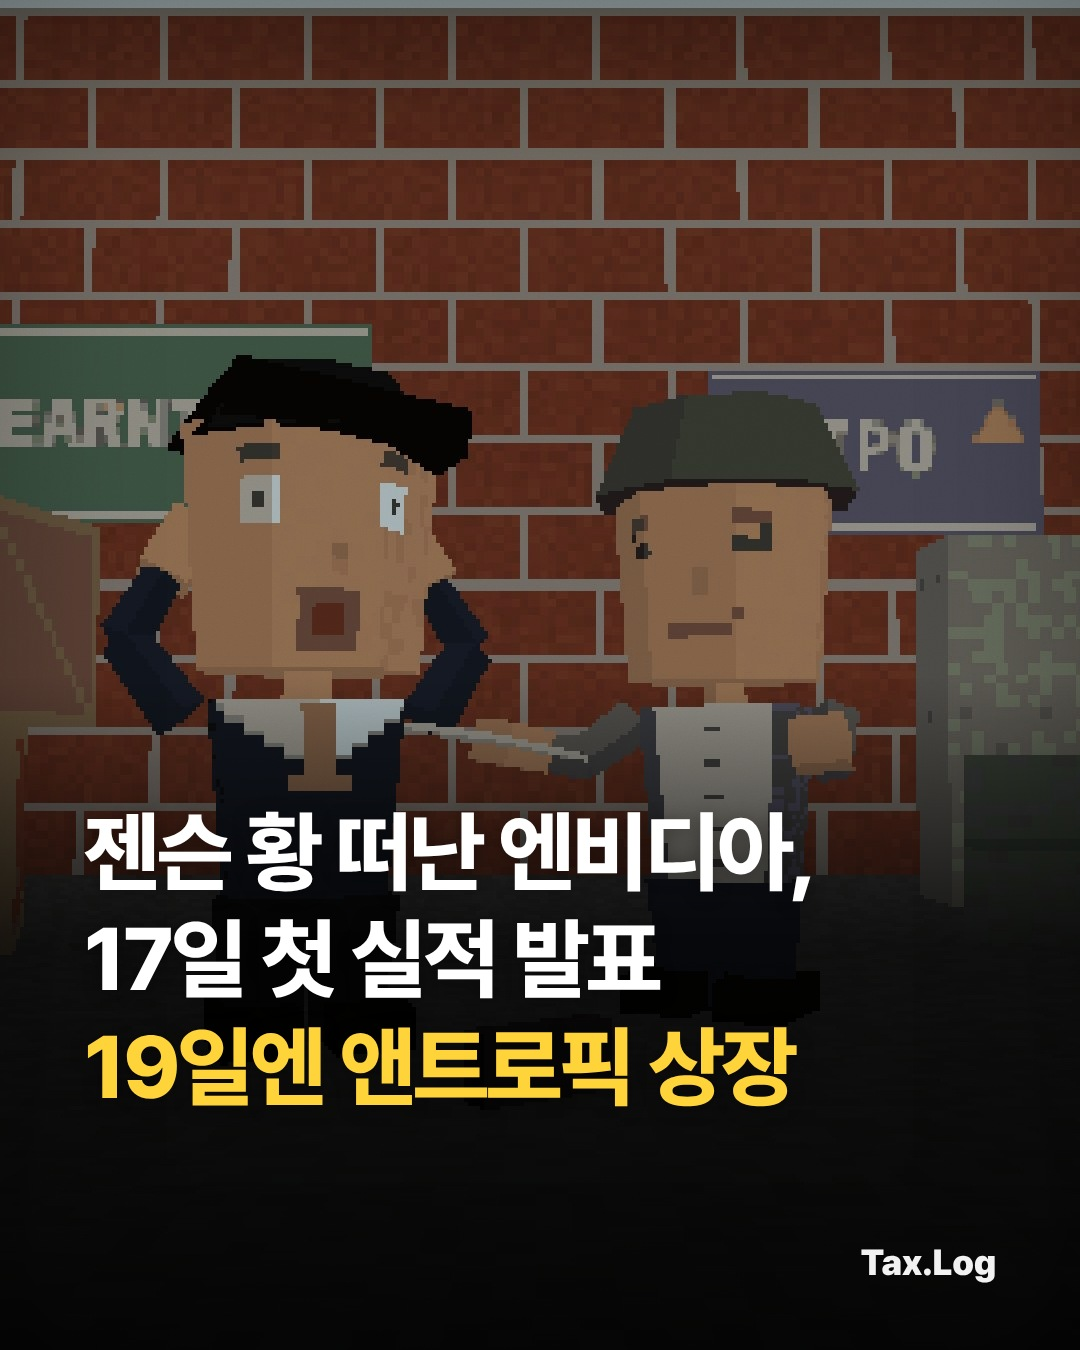
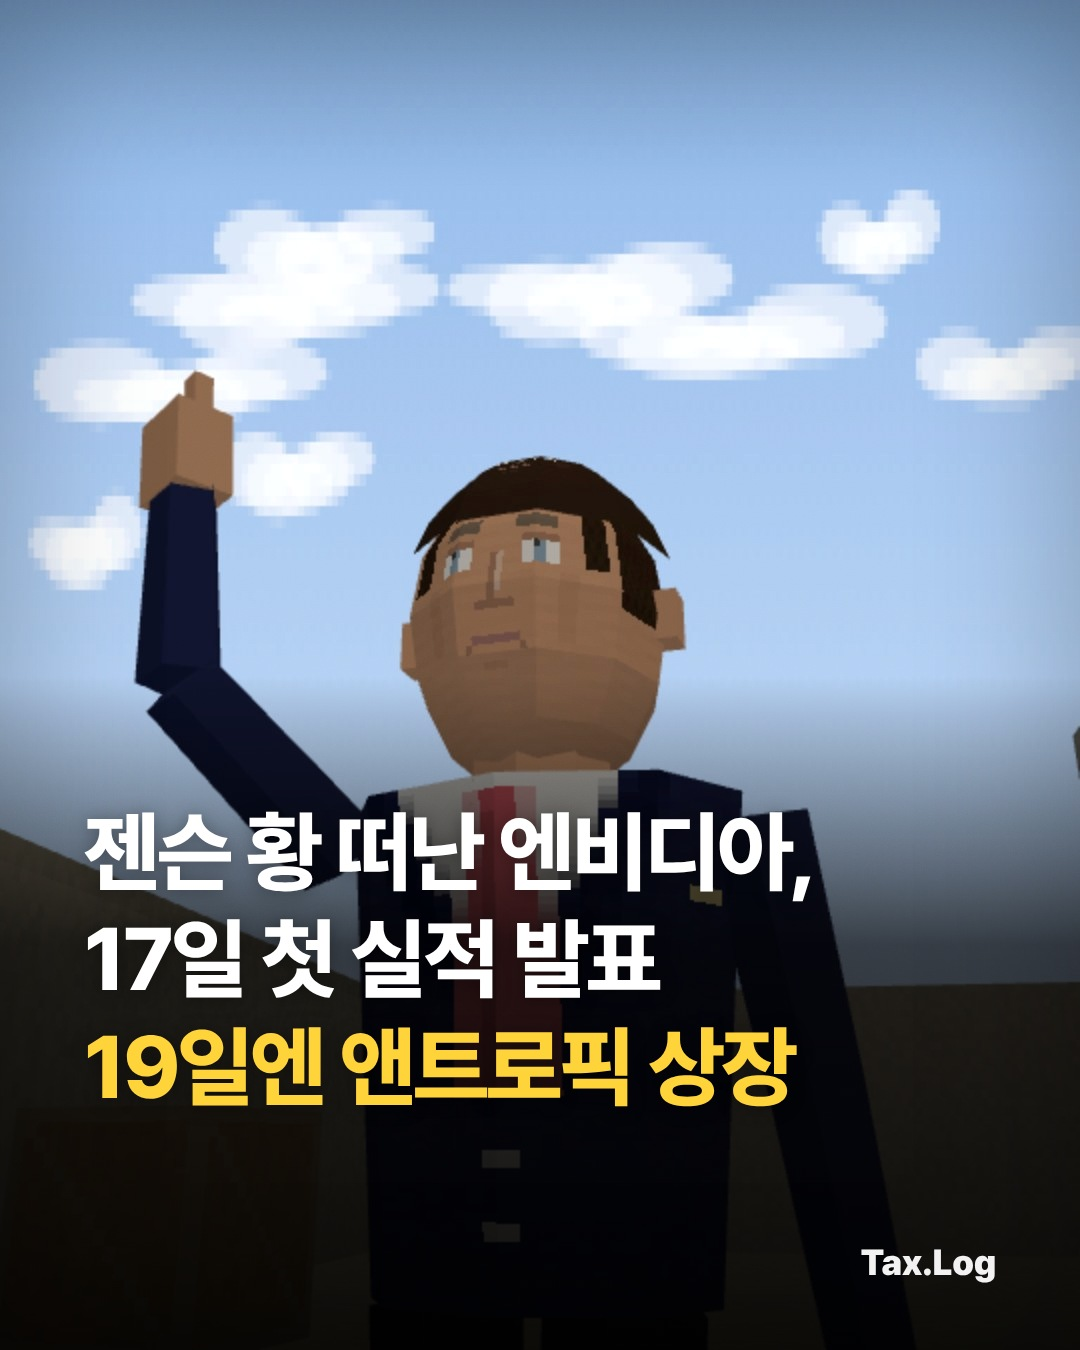
B-grade: default to user's profile-pic look (normal proportions, low angle, dust map, pixel textures)
Claude-Session: https://claude.ai/code/session_01MKGHoXPC7XDhyZAWdYfQUK

diff --git a/bgrade/scene.js b/bgrade/scene.js
@@ -4,13 +4,17 @@
 (function () {
   const S = window.SCENE;
   const RW = S.render_w || 432, RH = S.render_h || 540; // 저해상도로 그린 뒤 확대 → 옛날 게임 화면 느낌
-  const renderer = new THREE.WebGLRenderer({ antialias: false, preserveDrawingBuffer: true });
+  const renderer = new THREE.WebGLRenderer({ antialias: S.sd === false, preserveDrawingBuffer: true });
   renderer.setPixelRatio(1);
   renderer.setSize(RW, RH);
   document.body.appendChild(renderer.domElement);
   const scene = new THREE.Scene();
   const sky = S.sky || ["#5fa9ea", "#d4ecfb"];
-  scene.background = gradTex(sky[0], sky[1]);
+  scene.background = S.clouds === false ? gradTex(sky[0], sky[1]) : canvasTex(192, 128, (g, w, h) => {
+    const gr = g.createLinearGradient(0, 0, 0, h); gr.addColorStop(0, sky[0]); gr.addColorStop(1, sky[1]); g.fillStyle = gr; g.fillRect(0, 0, w, h);
+    const r = rnd(S.cloudSeed || 5); g.fillStyle = "rgba(255,255,255,.55)";
+    for (let i = 0; i < 9; i++) { const x = r() * w, y = 8 + r() * 50, cw = 12 + r() * 26; for (let j = 0; j < 5; j++) { g.beginPath(); g.ellipse(x + j * cw / 5, y + Math.sin(j) * 1.5, cw / 3, 2 + r() * 2, 0, 0, 7); g.fill(); } }
+  });
   scene.fog = new THREE.Fog(S.fog || "#b9c4c8", 14, 46);
   const cam = new THREE.PerspectiveCamera(S.cam?.fov || 55, RW / RH, 0.1, 200);
   const cp = S.cam?.pos || [0, 2.2, 6.2], ct = S.cam?.target || [0, 1.5, 0];
@@ -63,6 +67,17 @@
     box(1.4, 1.4, 1.4, lam({ map: TX.wood() }), -5.3, 0.7, -3.9, 0.1);
     box(2.2, 1.2, 1.1, lam({ map: TX.metal() }), 4.2, 0.6, -3.4, -0.4);
     if (map === "street") { for (let i = -3; i < 4; i++) box(0.3, 0.02, 2, col("#d8c46a"), 0, 0.02, i * 4); }
+  } else if (map === "dust") { // 모래색 구형 FPS 맵: 콘크리트 담 + 벽돌 건물(창문) + 나무 상자
+    ground.material = lam({ map: canvasTex(32, 32, (g, w, h) => noise(g, w, h, "#c9b892", 0.14, 17), [30, 30]) });
+    scene.fog.near = 25; scene.fog.far = 80;
+    box(1, 4.5, 40, lam({ map: canvasTex(32, 32, (g, w, h) => { noise(g, w, h, "#b6aa90", 0.16, 19); g.fillStyle = "rgba(0,0,0,.12)"; g.fillRect(0, 0, w, 2); }, [10, 1]) }), -7, 2.25, -6);
+    box(22, 4.5, 1, lam({ map: canvasTex(32, 32, (g, w, h) => noise(g, w, h, "#b6aa90", 0.16, 23), [6, 1]) }), -2, 2.25, -22);
+    const winTex = canvasTex(32, 32, (g, w, h) => { noise(g, w, h, "#9a5a3e", 0.22, 29); g.fillStyle = "#6e6a62"; for (let y = 0; y < h; y += 4) g.fillRect(0, y, w, 1); g.fillStyle = "#2c3036"; g.fillRect(8, 8, 16, 12); g.fillStyle = "#8a8f94"; g.fillRect(8, 8, 16, 1); g.fillRect(15, 8, 1, 12); g.fillRect(8, 13, 16, 1); g.fillStyle = "#b9b2a3"; g.fillRect(6, 20, 20, 2); }, [4, 2]);
+    box(1, 8, 20, lam({ map: winTex }), 7, 4, -10, 0);
+    box(14, 8, 1, lam({ map: winTex }), 13.5, 4, -20);
+    box(14, 0.8, 21, lam({ map: TX.concrete([6, 1]) }), 13.5, 8.4, -10);
+    box(2, 2, 2, lam({ map: TX.wood() }), 5, 1, -4, 0.15);
+    box(2, 2, 2, lam({ map: TX.wood() }), -5, 1, -9, -0.2);
   } else if (map === "warehouse") {
     box(30, 10, 1, lam({ map: TX.metal([10, 3]) }), 0, 5, -9);
     box(1, 10, 30, lam({ map: TX.concrete([8, 3]) }), -10, 5, 0);
@@ -117,6 +132,76 @@
       else { g.fillRect(cx - 2, 12, 5, 1); }
     });
   }
+
+  // 일반 비율(구형 FPS 'cs' 스타일)용 머리 텍스처: 구 전체를 감싸는 128x64, 정면은 u=0.25(x=32)
+  function headTexHD(skin, expr, hair, style) {
+    return canvasTex(128, 64, (g, w, h) => {
+      const sk = new THREE.Color(skin);
+      for (let y = 0; y < h; y++) for (let x = 0; x < w; x++) {
+        const d = Math.abs(((x - 32 + 128) % 128) - 0) ; const side = Math.min(d, 128 - d) / 64; // 0 정면 ~ 1 뒤
+        const k = 1.04 - side * 0.22 - Math.max(0, (y - 44) / 64) * 0.25 + (Math.sin(x * 12.9 + y * 78.2) * 0.5) * 0.04;
+        g.fillStyle = `rgb(${sk.r * 255 * k | 0},${sk.g * 255 * k | 0},${sk.b * 255 * k | 0})`; g.fillRect(x, y, 1, 1);
+      }
+      const E = expr || "neutral", cx = 32;
+      const hc = new THREE.Color(hair);
+      const hairPx = (x, y) => { const k = 0.9 + Math.sin(x * 3.1 + y * 1.7) * 0.12; g.fillStyle = `rgb(${hc.r * 255 * k | 0},${hc.g * 255 * k | 0},${hc.b * 255 * k | 0})`; g.fillRect(x, y, 1, 1); };
+      if (style !== "bald") {
+        for (let y = 0; y < 18; y++) for (let x = 0; x < w; x++) hairPx(x, y);
+        for (let y = 18; y < (style === "long" ? 50 : 34); y++) for (let x = 52; x < 116; x++) hairPx(x, y); // 뒤통수
+        for (let y = 18; y < 30; y++) { for (let x = 14; x < 18; x++) hairPx(x, y); for (let x = 46; x < 50; x++) hairPx(x, y); } // 구레나룻
+        if (style === "swoop") for (let y = 16; y < 21; y++) for (let x = 20; x < 46 - (y - 16) * 2; x++) hairPx(x, y); // 앞머리 쓸어넘김
+      }
+      const dark = "rgba(70,35,25,.55)";
+      // 눈썹
+      g.fillStyle = hair === "#f0f0f0" ? "#bbb" : hair;
+      const browY = E === "shock" ? 21 : 23;
+      if (E === "angry") { g.fillRect(cx - 10, 23, 7, 2); g.fillRect(cx - 5, 25, 2, 1); g.fillRect(cx + 3, 23, 7, 2); g.fillRect(cx + 3, 25, 2, 1); }
+      else if (E === "sad" || E === "cry") { g.fillRect(cx - 10, 25, 7, 2); g.fillRect(cx - 10, 24, 2, 1); g.fillRect(cx + 3, 25, 7, 2); g.fillRect(cx + 8, 24, 2, 1); }
+      else { g.fillRect(cx - 10, browY, 7, 2); g.fillRect(cx + 3, browY, 7, 2); }
+      // 눈
+      const eyeY = 27;
+      if (E === "happy" || E === "smug") { g.fillStyle = "#2a1a14"; g.fillRect(cx - 10, eyeY + 1, 6, 1); g.fillRect(cx + 4, eyeY + 1, 6, 1); }
+      else {
+        const ew = E === "shock" ? 4 : 3;
+        g.fillStyle = "#f3efe8"; g.fillRect(cx - 10, eyeY - (ew - 3), 6, ew); g.fillRect(cx + 4, eyeY - (ew - 3), 6, ew);
+        g.fillStyle = "#4a6a8a"; g.fillRect(cx - 8, eyeY - (ew - 3), 2, ew); g.fillRect(cx + 6, eyeY - (ew - 3), 2, ew);
+        g.fillStyle = "#111"; g.fillRect(cx - 8, eyeY, 1, 1); g.fillRect(cx + 6, eyeY, 1, 1);
+        g.fillStyle = dark; g.fillRect(cx - 10, eyeY - ew + 2, 6, 1); g.fillRect(cx + 4, eyeY - ew + 2, 6, 1);
+      }
+      if (E === "cry") { g.fillStyle = "#7cc4ff"; g.fillRect(cx - 9, 30, 1, 8); g.fillRect(cx + 7, 30, 1, 8); }
+      // 코(그림자)
+      g.fillStyle = dark; g.fillRect(cx - 1, 28, 1, 6); g.fillRect(cx - 3, 34, 6, 1);
+      g.fillStyle = "rgba(255,230,210,.35)"; g.fillRect(cx, 28, 1, 5);
+      // 볼 그림자
+      g.fillStyle = "rgba(60,25,20,.12)"; g.fillRect(cx - 13, 31, 3, 8); g.fillRect(cx + 10, 31, 3, 8);
+      // 입
+      g.fillStyle = "#7a3a33";
+      if (E === "shock") { g.fillRect(cx - 3, 37, 6, 5); g.fillStyle = "#2a0d0a"; g.fillRect(cx - 2, 38, 4, 3); }
+      else if (E === "happy") { g.fillRect(cx - 6, 37, 12, 1); g.fillRect(cx - 5, 38, 10, 3); g.fillStyle = "#f4f0e8"; g.fillRect(cx - 4, 38, 8, 1); }
+      else if (E === "smug") { g.fillRect(cx - 3, 38, 7, 1); g.fillRect(cx + 4, 37, 2, 1); }
+      else if (E === "sad" || E === "cry") { g.fillRect(cx - 4, 39, 8, 1); g.fillRect(cx - 5, 40, 1, 1); g.fillRect(cx + 4, 40, 1, 1); }
+      else if (E === "angry") { g.fillRect(cx - 5, 38, 10, 2); g.fillStyle = "#e9e3da"; g.fillRect(cx - 4, 38, 8, 1); }
+      else if (E === "stern") { g.fillRect(cx - 4, 38, 8, 1); g.fillStyle = dark; g.fillRect(cx - 5, 39, 1, 1); g.fillRect(cx + 4, 39, 1, 1); }
+      else { g.fillRect(cx - 4, 38, 8, 1); }
+      g.fillStyle = "rgba(60,25,20,.18)"; g.fillRect(cx - 2, 41, 4, 1); // 턱 그림자
+    });
+  }
+  function suitTexHD(o) { // 일반 비율 정장: 라펠·셔츠·넥타이·주머니
+    return canvasTex(64, 64, (g, w, h) => {
+      noise(g, w, h, o.top || "#22284a", 0.1, 41);
+      if (o.type === "suit") {
+        g.fillStyle = o.shirt || "#f1f1ee"; for (let y = 0; y < 34; y++) { const hw = Math.max(0, 6 - y * 0.2); g.fillRect(32 - hw, y, hw * 2, 1); }
+        g.fillStyle = "rgba(0,0,0,.35)"; for (let y = 0; y < 40; y++) { const hw = Math.max(0, 7 - y * 0.2); g.fillRect(32 - hw - 2, y, 2, 1); g.fillRect(32 + hw, y, 2, 1); }
+        g.fillStyle = o.tie || "#c8202a"; for (let y = 2; y < 40; y++) { const tw = y < 5 ? 1.5 : 1.5 + Math.min(1.5, (y - 5) / 14); g.fillRect(32 - tw, y, tw * 2, 1); }
+        g.fillStyle = "rgba(0,0,0,.25)"; g.fillRect(31, 5, 1, 34);
+        if (o.pin) { g.fillStyle = o.pin; g.fillRect(43, 14, 3, 2); }
+        g.fillStyle = "rgba(0,0,0,.3)"; g.fillRect(40, 38, 8, 1); g.fillRect(16, 38, 8, 1);
+        g.fillStyle = "#d8d2c0"; g.fillRect(31, 46, 2, 2); g.fillRect(31, 54, 2, 2);
+      } else {
+        g.fillStyle = "rgba(0,0,0,.25)"; g.fillRect(20, 30, 24, 14); g.fillStyle = "#ddd"; g.fillRect(28, 0, 1, 14); g.fillRect(36, 0, 1, 14);
+      }
+    });
+  }
   function outfitTex(o) {
     return canvasTex(32, 32, (g, w, h) => {
       noise(g, w, h, o.top || "#2b2f3a", 0.12, 31);
@@ -139,16 +224,17 @@
     facepalm: { l: [0.1, 0, 0.2], r: [-1.3, 0, -0.6], le: 0.2, re: 2.3 },
     hold: { l: [-1.1, 0, 0.25], r: [-1.1, 0, -0.25], le: 0.6, re: 0.6 },
     shrug: { l: [0, 0, 1.0], r: [0, 0, -1.0], le: -1.5, re: -1.5 },
+    point_up: { l: [0.1, 0, 0.15], r: [-2.2, 0.2, -0.45], le: 0.2, re: 0.9 },
     head_grab: { l: [-0.3, 0, 2.15], r: [-0.3, 0, -2.15], le: 0, re: 0, lez: 2.05, rez: -2.05 },
     wallet_empty: { l: [-0.9, 0.2, 0.5], r: [-0.9, -0.2, -0.5], le: 0.4, re: 0.4 },
   };
   function makeChar(c) {
     const root = new THREE.Group(); const sc = c.scale || 1;
     // SD(미니 FPS식 2.5등신) 기본. S.sd === false 면 일반 비율
-    const D = S.sd === false ? { leg: 1.3, lw: 1, torso: 1.15, head: 1, arm: 0.62, hand: 1 } : { leg: 0.62, lw: 1.25, torso: 0.82, head: 1.95, arm: 0.4, hand: 1.5 };
+    const D = S.sd === false ? { leg: 1.3, lw: 1.1, torso: 1.1, head: 1.3, arm: 0.6, hand: 1.25 } : { leg: 0.62, lw: 1.25, torso: 0.82, head: 1.95, arm: 0.4, hand: 1.5 };
     const o = c.outfit || { type: "suit", top: "#262b36" };
     const skin = c.skin || "#d9a77f", hair = c.hair || "#1b1814";
-    const clothM = lam({ map: outfitTex(o) }), sleeveM = col(o.top || "#262b36"), pantsM = col(o.pants || "#1f2128");
+    const clothM = lam({ map: S.sd === false ? suitTexHD(o) : outfitTex(o) }), sleeveM = col(o.top || "#262b36"), pantsM = col(o.pants || "#1f2128");
     const skinM = col(skin), shoeM = col(o.shoes || "#141414"), hairM = col(hair);
     // 다리
     [-0.2, 0.2].forEach((x, i) => {
@@ -156,7 +242,7 @@
       const shoe = new THREE.Mesh(new THREE.BoxGeometry(0.26 * D.lw, 0.16 * D.lw, 0.46 * D.lw), shoeM); shoe.position.set(x * 1.15, 0.08, 0.08); root.add(shoe);
     });
     // 몸통(위가 넓은 각진 사다리꼴)
-    const torsoG = new THREE.CylinderGeometry(0.46, 0.38, D.torso, 6, 1, false, -Math.PI); const torso = new THREE.Mesh(torsoG, clothM);
+    const torsoG = new THREE.CylinderGeometry(S.sd === false ? 0.5 : 0.46, 0.4, D.torso, S.sd === false ? 8 : 6, 1, false, -Math.PI); const torso = new THREE.Mesh(torsoG, clothM);
     torso.scale.z = 0.66; torso.position.y = D.leg + D.torso / 2; root.add(torso);
     // 목·머리 (머리는 6각 기둥 + 위아래 뚜껑: 복셀이 아닌 구형 FPS 모델 느낌)
     const neck = seg(0.11, 0.12, 0.16, skinM, 5); neck.position.y = D.leg + D.torso + 0.12; root.add(neck);
@@ -167,6 +253,13 @@
     if (c.hairStyle === "side") { const h2 = new THREE.Mesh(new THREE.BoxGeometry(0.5, 0.1, 0.25), hairM); h2.position.set(0.04, 0.27, 0.16); h2.rotation.z = -0.15; head.add(h2); }
     if (c.hairStyle === "long") { const h3 = new THREE.Mesh(new THREE.CylinderGeometry(0.3, 0.33, 0.6, 7), hairM); h3.position.set(0, -0.08, -0.08); h3.scale.z = 0.8; head.add(h3); }
     if (c.hairStyle === "bald") crown.material = skinM;
+    if (S.sd === false) { // 구형 FPS 'cs' 머리: 둥근 저폴리 머리 하나에 얼굴·머리카락 텍스처
+      head.clear();
+      const sg = new THREE.SphereGeometry(0.3, 10, 8); const nk = new THREE.Mesh(new THREE.CylinderGeometry(0.13, 0.15, 0.3, 8), skinM); nk.position.y = -0.3; head.add(nk); const hd = new THREE.Mesh(sg, lam({ map: headTexHD(skin, c.expr, hair, c.hairStyle || "swoop") }));
+      hd.scale.set(0.86 * (c.headW || 1), 1.12, 0.95); head.add(hd);
+      if (c.hairStyle !== "bald") { const cap = new THREE.Mesh(new THREE.SphereGeometry(0.31, 10, 5, 0, Math.PI * 2, 0, 1.25), lam({ map: headTexHD(hair, "neutral", hair, "bald") })); cap.scale.set(0.9 * (c.headW || 1), 1.12, 1.0); cap.position.set(0, 0.03, -0.02); head.add(cap); }
+      const ear = (x) => { const e = new THREE.Mesh(new THREE.BoxGeometry(0.05, 0.1, 0.07), skinM); e.position.set(x, 0, 0); head.add(e); }; ear(0.26); ear(-0.26);
+    }
     if (c.glasses) { const gl = new THREE.Mesh(new THREE.BoxGeometry(0.42, 0.07, 0.05), col("#111")); gl.position.set(0, 0.05, 0.27); head.add(gl); }
     if (c.helmet) { const hm2 = new THREE.Mesh(new THREE.CylinderGeometry(0.24, 0.34, 0.22, 8), col(c.helmet)); hm2.position.y = 0.3; head.add(hm2); }
     if (c.cap) { const cp = new THREE.Mesh(new THREE.CylinderGeometry(0.31, 0.31, 0.14, 7), col(c.cap)); cp.position.y = 0.33; head.add(cp); const br = new THREE.Mesh(new THREE.BoxGeometry(0.4, 0.04, 0.3), col(c.cap)); br.position.set(0, 0.28, 0.3); head.add(br); }
@@ -181,6 +274,7 @@
       const el = new THREE.Group(); el.position.y = -D.arm; sh.add(el);
       const fa = seg(0.11, 0.09, D.arm * 0.9, sleeveM, 5); el.add(fa);
       const hand = new THREE.Mesh(new THREE.BoxGeometry(0.15 * D.hand, 0.2 * D.hand, 0.13 * D.hand), skinM); hand.position.y = -D.arm * 0.9 - 0.08 * D.hand; el.add(hand);
+      if ((c.pose === "point_up" || c.pose === "point") && k === "r") { const f = new THREE.Mesh(new THREE.BoxGeometry(0.045 * D.hand, 0.16 * D.hand, 0.045 * D.hand), skinM); f.position.set(0.02, -0.13 * D.hand, 0.02); hand.add(f); }
       sh.rotation.set(P[k][0], P[k][1], P[k][2]); el.rotation.x = -(k === "l" ? P.le : P.re); el.rotation.z = (k === "l" ? P.lez : P.rez) || 0;
       root.add(sh);
       if (c.prop && ((c.propHand || "r") === k)) el.add(makeProp(c.prop, -D.arm * 0.9 - 0.2));

diff --git a/bgrade/render.py b/bgrade/render.py
@@ -18,8 +18,11 @@ def main():
     out = sys.argv[2]
     W = int(sys.argv[3]) if len(sys.argv) > 3 else 1080
     H = int(sys.argv[4]) if len(sys.argv) > 4 else 1350
-    spec.setdefault("render_w", round(W / 4))
-    spec.setdefault("render_h", round(H / 4))
+    spec.setdefault("sd", False)  # 기본: 사용자 프로필 사진 느낌의 일반 비율(cs). SD는 "sd": true
+    cs = spec.get("sd") is False  # 일반 비율 'cs' 스타일: 매끈한 형태 + 픽셀 텍스처(프로필 사진 느낌)
+    div = spec.get("pixel", 2 if cs else 4)
+    spec.setdefault("render_w", round(W / div))
+    spec.setdefault("render_h", round(H / div))
     three = open(os.path.join(HERE, "vendor", "three.min.js")).read()
     scene_js = open(os.path.join(HERE, "scene.js")).read()
     html = ("<html><body style='margin:0;background:#000'>"
@@ -39,8 +42,11 @@ def main():
             print("JS errors:", errs)
     im = Image.open(tmp).convert("RGB")
     # 옛날 게임 화면: 살짝 뭉개진 확대 + 약한 색 단계 감소
-    im = im.quantize(colors=64, dither=Image.Dither.NONE).convert("RGB")
-    im = im.resize((W, H), Image.NEAREST)  # 픽셀이 그대로 보이게(미니 FPS 저해상도 스크린샷 느낌)
+    if cs:
+        im = im.resize((W, H), Image.BILINEAR)
+    else:
+        im = im.quantize(colors=64, dither=Image.Dither.NONE).convert("RGB")
+        im = im.resize((W, H), Image.NEAREST)  # 픽셀이 그대로 보이게(미니 FPS 저해상도 스크린샷 느낌)
     im.save(out, quality=88)
     os.remove(tmp)
     print(out)

diff --git a/bgrade/STYLE_GUIDE.md b/bgrade/STYLE_GUIDE.md
@@ -3,7 +3,7 @@
 > "그림은 B급, 정보는 A급." 진지한 경제뉴스를 설명하는데 등장인물은 옛날 저사양 FPS 게임에서 튀어나온 것 같은 웃기고 투박한 3D 캐릭터.
 
 ## 1. 핵심 스타일
-(2026-11-16 사용자 보완) 미니서든어택처럼 큰 머리의 SD(약 2.5등신) 캐릭터 + 픽셀이 그대로 보이는 저해상도 화면이 기준.
+(2026-11-16 사용자 최종 기준) 사용자가 만든 프로필 사진 느낌이 기준: 일반 성인 비율의 정장 캐릭터를 아래에서 올려다본 구도, 파란 하늘과 구름, 모래색 콘크리트 담·벽돌 건물(창문)·나무 상자가 있는 구형 FPS 맵, 형태는 매끈한 저폴리인데 텍스처(정장 천·벽·손)는 픽셀이 보이는 저해상도. SD(2.5등신)는 기본이 아님("sd": true 일 때만).
 초창기 온라인 FPS(미니서든어택/X Operations 시절) 특유의 저폴리곤 3D 게임 그래픽. 현대적인 고퀄리티 일러스트가 아니라 2000년대 초반 PC 게임의 투박하고 어색한 3D 그래픽.
 
 ## 2. 그래픽 필수 설정
@@ -26,9 +26,9 @@ Low Poly 3D Character · Retro FPS Game Graphics · Early 2000s PC Game Aestheti
 - 웃음은 캐릭터의 어색함과 상황의 부조화에서.
 
 ## 구현 (자동 작업용)
-- 렌더러: `python3 bgrade/render.py scene.json out.jpg [W H]` (기본 1080x1350). headless Chromium + three.js(bgrade/vendor, MIT)로 1/4 해상도로 그린 뒤 픽셀 그대로(NEAREST) 확대. 캐릭터는 기본 SD 비율("sd": false면 일반 비율 — 쓰지 않음).
-- scene.json: `map`(alley·street·warehouse·rooftop), `cam`{pos,target,fov}, `signs`[{text,arrow:"up"/"down",bg,pos,w,size}], `chars`[{pos,ry,expr,pose,outfit{type:suit/hoodie/vest,top,shirt,tie,pants},skin,hair,hairStyle:side/long/bald,cap,prop,propHand,headTilt}], `items`[{type,pos,ry,scale}].
+- 렌더러: `python3 bgrade/render.py scene.json out.jpg [W H]` (기본 1080x1350). headless Chromium + three.js(bgrade/vendor, MIT)로 1/4 해상도로 그린 뒤 픽셀 그대로(NEAREST) 확대. 기본은 일반 비율 'cs' 스타일(1/2 해상도 렌더, 매끈한 형태 + 픽셀 텍스처, 둥근 머리에 얼굴·머리카락 텍스처). "sd": true 면 SD 2.5등신 + 1/4 해상도 픽셀 화면.
+- scene.json: `map`(dust·alley·street·warehouse·rooftop), `cam`{pos,target,fov}, `signs`[{text,arrow:"up"/"down",bg,pos,w,size}], `chars`[{pos,ry,expr,pose,outfit{type:suit/hoodie/vest,top,shirt,tie,pants},skin,hair,hairStyle:swoop/side/long/bald,cap,prop,propHand,headTilt}], `items`[{type,pos,ry,scale}].
   - sd(기본 true) · `chars[].helmet`(색) 추가 가능
-  - expr: neutral·shock·happy·smug·sad·cry·angry / pose: idle·hands_up·cheer·point·facepalm·hold·shrug·head_grab·wallet_empty / prop: money·phone·briefcase·chart·receipt
-- 카드 글이 아래쪽 약 45%를 덮으므로 캐릭터 얼굴은 화면 위쪽 절반에 오게 카메라를 잡는다(SD 기준 예: cam.pos [0.2,1.2,6.2], target [0.2,1.55,0], fov 50 — 캐릭터는 z 0~-1 근처, 간판은 y 4~4.6).
+  - expr: neutral·stern·shock·happy·smug·sad·cry·angry / pose: point_up·idle·hands_up·cheer·point·facepalm·hold·shrug·head_grab·wallet_empty / prop: money·phone·briefcase·chart·receipt
+- 카드 글이 아래쪽 약 45%를 덮으므로 캐릭터 얼굴은 화면 위쪽 절반에 오게 카메라를 잡는다(기본 cs 예: 한 명 클로즈업 로우앵글 cam.pos [0.5,1.6,3.0], target [0,2.75,0], fov 56 / 두세 명이면 cam.pos [0,1.8,5.5], target [0,2.4,0]). map 기본 추천 "dust", sky ["#3f78d6","#9cc0ee"].
 - 렌더한 이미지를 make_cards_mz.py spec의 "photo"로 넣는다. 예시: samples/bgrade-v1/.

diff --git a/DESIGN_FEEDBACK.md b/DESIGN_FEEDBACK.md
@@ -1,6 +1,6 @@
 # Tax.Log 인스타 디자인 피드백 (사용자 확정, 작업 전 반드시 읽기)
 
-> ★ 2026-11-16 카드 이미지 기본값 변경: 카드뉴스 배경은 실사진(Unsplash)이 아니라 '미니서든 B급 3D 그래픽'(bgrade/STYLE_GUIDE.md, 렌더러 bgrade/render.py). "그림은 B급, 정보는 A급." 아래 목록 중 카드의 실사진·Unsplash·사진 테마·작가 세트 관련 항목은 카드에는 더 이상 적용하지 않음(릴스는 기존 실사진 방식 유지). 텍스트 레이아웃·폰트·노란 강조·로고·팔로우 문구·라벨 금지 등 나머지는 그대로.
+> ★ 2026-11-16 카드 이미지 기본값 변경: 카드뉴스 배경은 실사진(Unsplash)이 아니라 '구형 FPS B급 3D 그래픽'(bgrade/STYLE_GUIDE.md, 렌더러 bgrade/render.py). "그림은 B급, 정보는 A급." 아래 목록 중 카드의 실사진·Unsplash·사진 테마·작가 세트 관련 항목은 카드에는 더 이상 적용하지 않음(릴스는 기존 실사진 방식 유지). 텍스트 레이아웃·폰트·노란 강조·로고·팔로우 문구·라벨 금지 등 나머지는 그대로.
 
 > 최우선 원칙(2026-11-13 사용자): AI 티는 무조건 최소화하거나 없앤다. 디자인·문구·사진 선택 모두 이 기준으로 먼저 판단.
 
